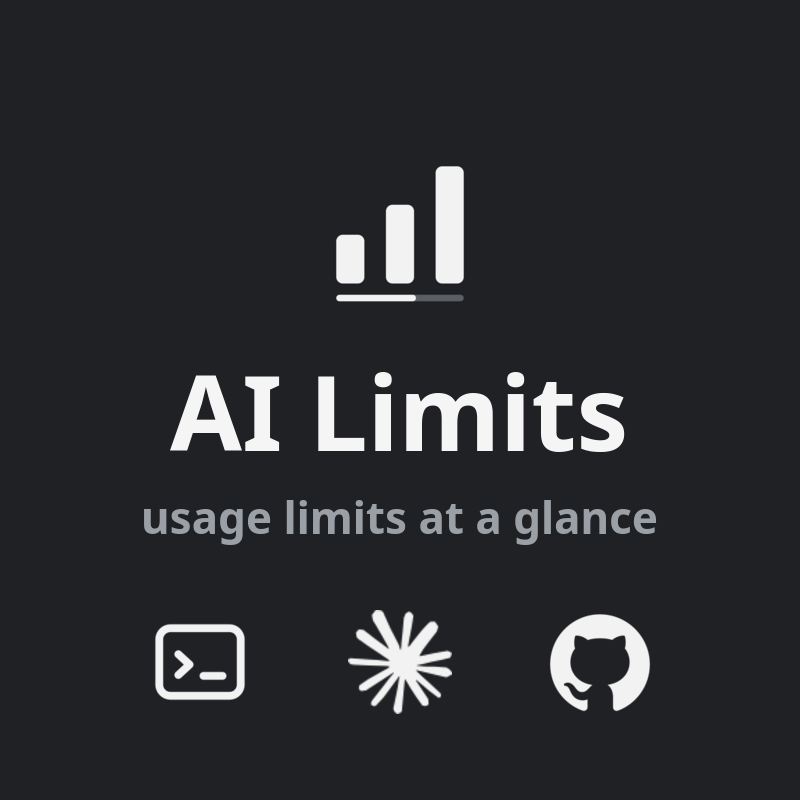
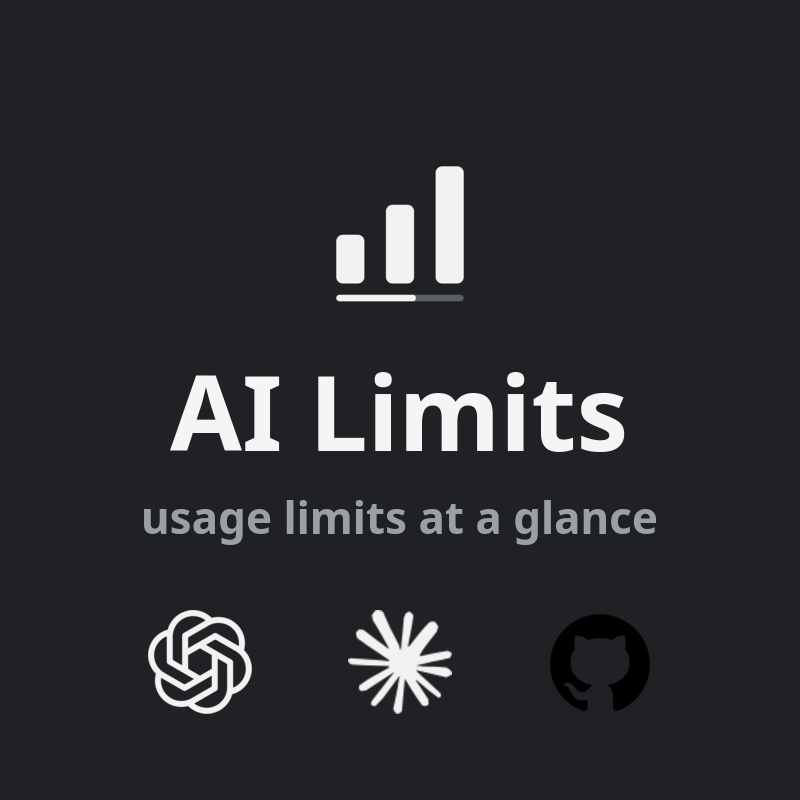
Restore OpenAI's mark and bundle a neutral alternative
Reverts the icon swap at the maintainer's decision: comparable widgets on the
Store carry vendor marks, and identifying whose usage a row shows is nominative
use. The file ships unmodified.

The position is recorded rather than glossed. OpenAI's brand guidelines ask
third parties to obtain written consent and not to alter the logo; this project
has not obtained consent, and the applet draws every icon as a theme-recoloured
mask. TRADEMARKS.md and THIRD_PARTY_NOTICES.md say so plainly, and the section
7(e) carve-out keeps all three marks outside the GPL grant.

Keep the generic terminal glyph as codex-generic-symbolic.svg so a downstream
that does not want to take that position has a drop-in replacement. The applet
reads each provider's icon filename from the collector's `symbol` field, so
swapping it needs no code change.

Also refreshes the screenshot and the Store hero image, which embed the glyph.

Claude-Session: https://claude.ai/code/session_01471vkPSZfB7ZLWJ3vJv9xs

Changed region(s): [[0.1875, 0.75, 0.3125, 0.9062], [0.6875, 0.75, 0.8125, 0.9062]]

diff --git a/TRADEMARKS.md b/TRADEMARKS.md
@@ -23,11 +23,13 @@ project does not hold them.
 
 | File | Mark | Owner |
 | --- | --- | --- |
+| `package/contents/icons/codex-symbolic.svg` | OpenAI Blossom | OpenAI |
 | `package/contents/icons/claude-symbolic.svg` | Claude mark | Anthropic |
 | `package/contents/icons/copilot-symbolic.svg` | GitHub mark | GitHub, Inc. |
 
-`codex-symbolic.svg` depicts no one's mark. It is a generic terminal glyph
-drawn for this project and is covered by the GPL like any other source file.
+`codex-generic-symbolic.svg` depicts no one's mark. It is a neutral terminal
+glyph drawn for this project, covered by the GPL like any other source file,
+and is there for anyone who would rather not redistribute OpenAI's asset.
 
 The `claude-symbolic.svg` and `copilot-symbolic.svg` **files** are redistributed
 under the MIT license of the icon sets they come from (Lobe Icons and Primer
@@ -36,9 +38,8 @@ copyright permission in the file. It does not grant trademark permission in the
 mark the file depicts. Those are separate questions and this notice concerns the
 second one.
 
-No OpenAI brand asset is bundled. OpenAI's brand guidelines require prior
-written consent for third-party use of their assets and prohibit modifying the
-logo, so the Codex row uses a generic glyph instead.
+`codex-symbolic.svg` is the one file here with no open-source license at all.
+It is OpenAI's brand asset, shipped unmodified and used nominatively.
 
 ## Why the marks are here
 
@@ -53,12 +54,15 @@ Your GPL rights in the code do not extend to the logos. If you distribute a
 modified version, especially under a different name, you are responsible for
 your own trademark position. In particular:
 
-- Anthropic and GitHub publish brand guidelines covering their marks. Note that
-  this widget renders every icon as a mask recolored to the desktop theme's
-  text color, which is a change in appearance even though the shipped files are
-  unmodified.
-- Do not substitute OpenAI's Blossom for the generic Codex glyph. Their brand
-  guidelines require prior written consent and prohibit modifying the logo.
+- OpenAI, Anthropic and GitHub all publish brand guidelines covering their
+  marks. OpenAI's ask third parties to obtain written consent before using
+  their assets and not to alter the logo. This project has not obtained that
+  consent, and the widget renders every icon as a mask recolored to the
+  desktop theme's text color, which changes its appearance even though the
+  shipped file is unmodified.
+- If that is not a position you want to take on in a redistribution, swap
+  `codex-symbolic.svg` for the bundled `codex-generic-symbolic.svg`, which
+  depicts no mark at all.
 
 The safe course for a fork is to replace the provider logos with your own
 neutral glyphs. The widget reads each provider's icon filename from the

diff --git a/THIRD_PARTY_NOTICES.md b/THIRD_PARTY_NOTICES.md
@@ -5,22 +5,29 @@ sources below.
 
 | File | Source | License |
 | --- | --- | --- |
-| `codex-symbolic.svg` | Original to this project | GPL-3.0-or-later |
+| `codex-symbolic.svg` | OpenAI Blossom, from OpenAI's brand asset archive | OpenAI brand guidelines (not an open-source license) |
+| `codex-generic-symbolic.svg` | Original to this project | GPL-3.0-or-later |
 | `claude-symbolic.svg` | [Lobe Icons](https://github.com/lobehub/lobe-icons), `@lobehub/icons-static-svg` | MIT |
 | `copilot-symbolic.svg` | [Primer Octicons](https://github.com/primer/octicons), `mark-github-24` | MIT |
 
 The MIT terms are compatible with GPL-3.0-or-later, so those two files are
 redistributed as part of this GPL work with their copyright notices intact.
 
-`codex-symbolic.svg` is a generic terminal glyph drawn for this project. It is
-deliberately **not** OpenAI's Blossom: OpenAI's brand guidelines require prior
-written consent for third-party use of their assets and prohibit modifying the
-logo, and this project has no such consent. Do not substitute the real mark
-without obtaining it.
+`codex-symbolic.svg` carries no open-source license. It is OpenAI's brand
+asset, shipped unmodified and used nominatively to identify whose usage the
+Codex row shows. OpenAI's brand guidelines ask third parties to obtain written
+consent before using their assets and not to alter the logo; this project has
+not obtained that consent, and the widget draws every icon as a mask recoloured
+to the desktop theme.
+
+`codex-generic-symbolic.svg` is a neutral terminal glyph drawn for this project
+and depicts no one's mark. A distribution that would rather not carry OpenAI's
+asset can use it instead: the applet takes each provider's icon filename from
+the `symbol` field in the collector's output, so swapping it needs no code
+change.
 
 ## Trademarks
 
-The Claude and GitHub marks are trademarks of Anthropic and GitHub, Inc. They
-are **not** covered by this project's GPL grant. See
-[`TRADEMARKS.md`](TRADEMARKS.md) for the full notice, made as an additional
-term under GPL-3.0 section 7(e).
+The marks these files depict are trademarks of their owners and are **not**
+covered by this project's GPL grant. See [`TRADEMARKS.md`](TRADEMARKS.md) for
+the full notice, made as an additional term under GPL-3.0 section 7(e).

diff --git a/CHANGELOG.md b/CHANGELOG.md
@@ -1,5 +1,12 @@
 # Changelog
 
+## 1.0.2
+
+- The Codex row shows OpenAI's mark again, shipped unmodified and used
+  nominatively. `codex-generic-symbolic.svg` is bundled alongside it as a
+  neutral drop-in for redistributions that would rather not carry a brand
+  asset; see `TRADEMARKS.md`.
+
 ## 1.0.1
 
 - Fixed: a Codex Spark weekly cap was labelled `7d`, the same as the combined
